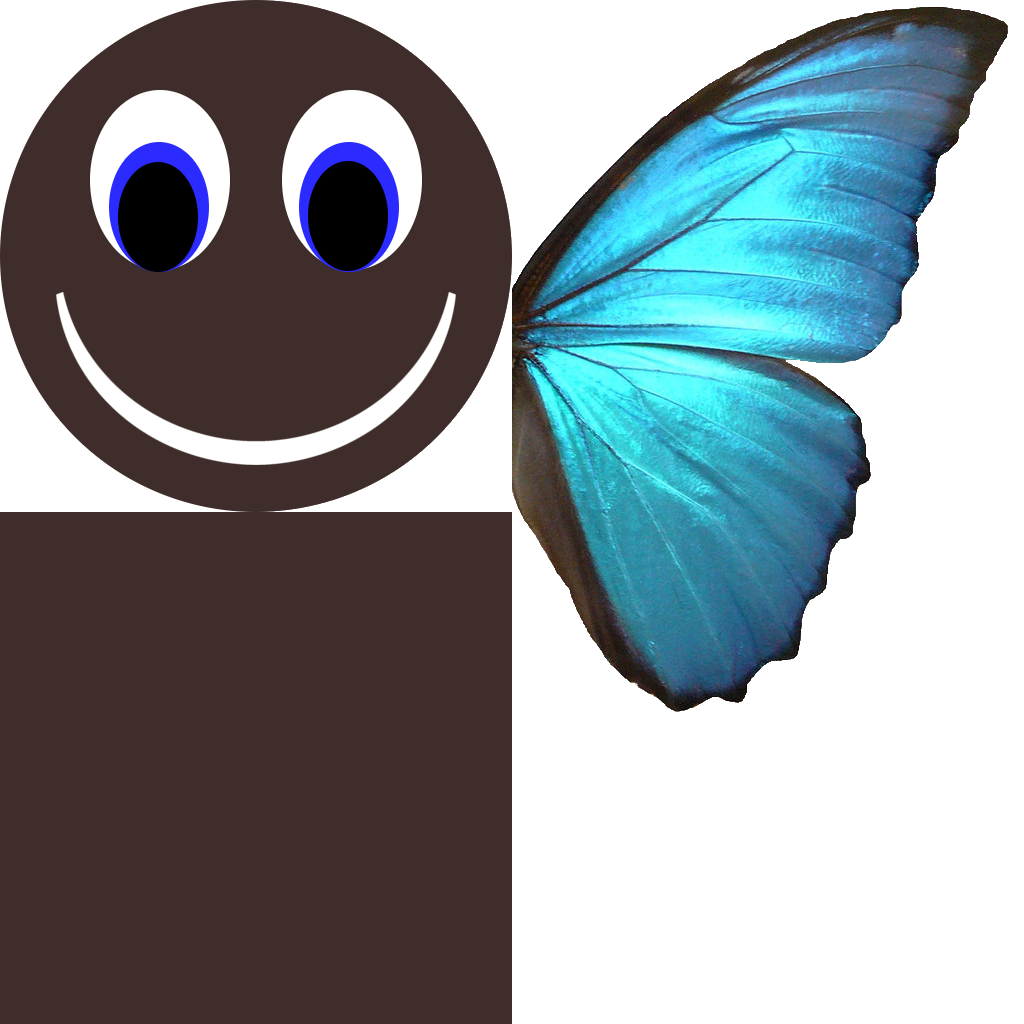
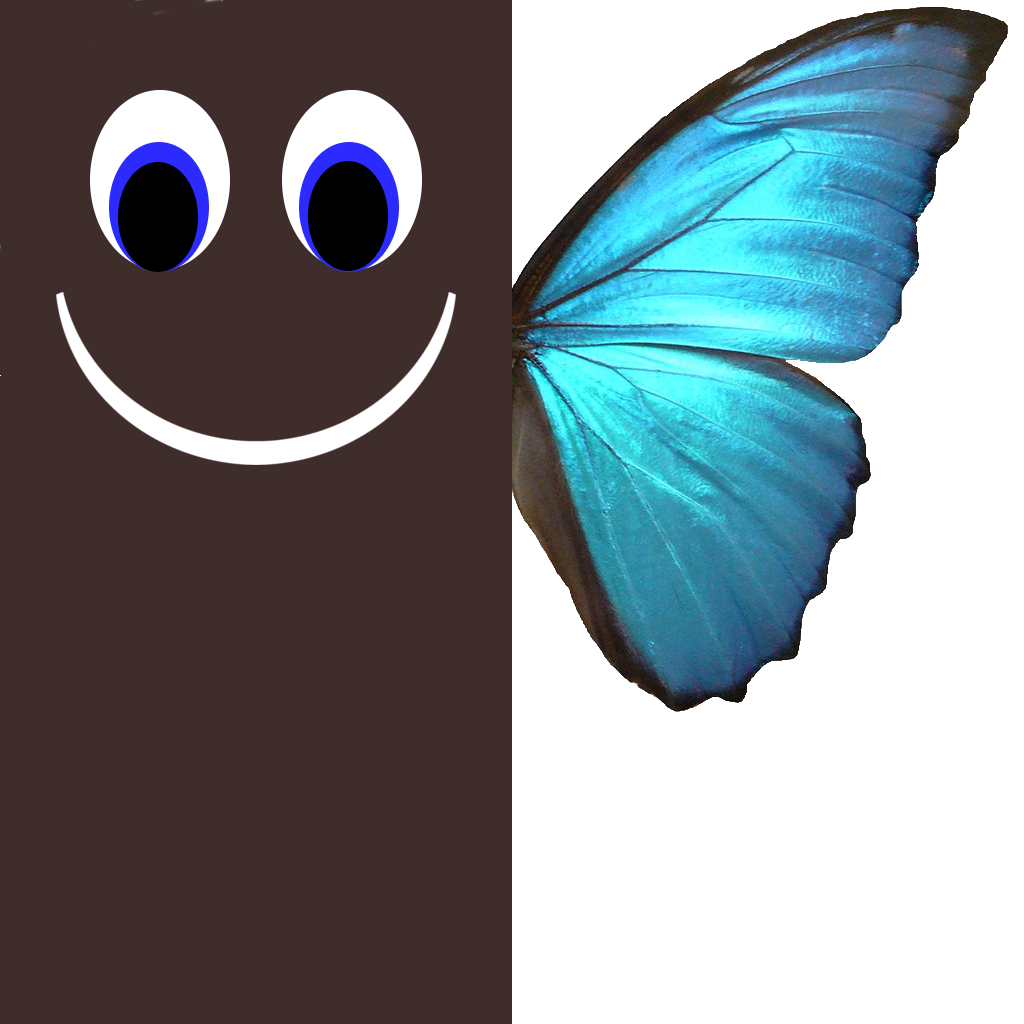
Changed model of splatterling. Calculation of face texture is done automatically.

diff --git a/src/scene/object/creature/Splatterling.cpp b/src/scene/object/creature/Splatterling.cpp
@@ -23,7 +23,69 @@ static const GLfloat GlobalPositionData[] =
 	-1.0f, -1.0f, 8.0f,
 	-1.0f, 1.0f, 8.0f,
 
+
+	0.0f,0.0f,0.0f,
+	0.25f,0.5f,1.0f,
+	-0.25f,0.5f,1.0f,
+	-0.5f,0.25f,1.0f,
+	-0.5f,-0.25f,1.0f,
+	-0.25f,-0.5f,1.0f,
+	0.25f,-0.5f,1.0f,
+	0.5f,-0.25f,1.0f,
+	0.5f,0.25f,1.0f,
+	0.25f,0.5f,1.0f,
+
+	-0.25f,0.5f,8.5f,
+	0.25f,0.5f,1.0f,
+	0.5f,1.0f,8.0f,
+	-0.5f,1.0f,8.0f,
+	-0.5f,0.25f,1.0f,
+	-1.0f,0.5f,8.0f,
+	-0.5f,-0.25f,1.0f,
+	-1.0f,-0.5f,8.0f,
+	-0.25f,-0.5f,1.0f,
+	-0.5f,-1.0f,8.0f,
+	0.25f,-0.5f,1.0f,
+	0.5f,-1.0f,8.0f,
+	0.5f,-0.25f,1.0f,
+	1.0f,-0.5f,8.0f,
+	0.5f,0.25f,1.0f,
+	1.0f,0.5f,8.0f,
+	0.25f,0.5f,1.0f,
+	0.5f,1.0f,8.0f,
+
 	//face
+
+	0.0f,0.0f,8.8f,
+	0.25f,0.5f,8.5f,
+	-0.25f,0.5f,8.5f,
+	-0.5f,0.25f,8.5f,
+	-0.5f,-0.25f,8.5f,
+	-0.25f,-0.5f,8.5f,
+	0.25f,-0.5f,8.5f,
+	0.5f,-0.25f,8.5f,
+	0.5f,0.25f,8.5f,
+	0.25f,0.5f,8.5f,
+
+	-0.25f,0.5f,8.5f,
+	0.25f,0.5f,8.5f,
+	0.5f,1.0f,8.0f,
+	-0.5f,1.0f,8.0f,
+	-0.5f,0.25f,8.5f,
+	-1.0f,0.5f,8.0f,
+	-0.5f,-0.25f,8.5f,
+	-1.0f,-0.5f,8.0f,
+	-0.25f,-0.5f,8.5f,
+	-0.5f,-1.0f,8.0f,
+	0.25f,-0.5f,8.5f,
+	0.5f,-1.0f,8.0f,
+	0.5f,-0.25f,8.5f,
+	1.0f,-0.5f,8.0f,
+	0.5f,0.25f,8.5f,
+	1.0f,0.5f,8.0f,
+	0.25f,0.5f,8.5f,
+	0.5f,1.0f,8.0f,
+
 	-1.0f, 1.0f, 8.0f,
 	-1.0f, -1.0f, 8.0f,
 	1.0f, 1.0f, 8.0f,
@@ -31,16 +93,16 @@ static const GLfloat GlobalPositionData[] =
 
 	//wingOne
 	0.0f, 0.5f, 4.0f,
-	8.0f, 4.0f, -2.0f,
-	8.0f, 4.0f, 10.0f,
+	8.0f, 4.0f, -6.0f,
+	8.0f, 4.0f, 14.0f,
 
 	//wingTwo
 	0.0f, 0.5f, 4.0f,
-	-8.0f, 4.0f, -2.0f,
-	-8.0f, 4.0f, 10.0f,
+	-8.0f, 4.0f, -6.0f,
+	-8.0f, 4.0f, 14.0f,
 };
 
-static const GLfloat TextureCoordData[] =
+static GLfloat TextureCoordData[] =
 {
 	0.0f, 0.0f,
 	0.5f, 0.0f,
@@ -49,7 +111,70 @@ static const GLfloat TextureCoordData[] =
 	0.5f, 0.5f,
 	0.5f, 0.0f,
 
+
+	0.0f, 0.0f,
+	0.0f, 0.0f,
+	0.0f, 0.0f,
+	0.0f, 0.0f,
+	0.0f, 0.0f,
+	0.0f, 0.0f,
+	0.0f, 0.0f,
+	0.0f, 0.0f,
+	0.0f, 0.0f,
+	0.0f, 0.0f,
+
+
+	0.0f, 0.0f,
+	0.0f, 0.0f,
+	0.0f, 0.0f,
+	0.0f, 0.0f,
+	0.0f, 0.0f,
+	0.0f, 0.0f,
+	0.0f, 0.0f,
+	0.0f, 0.0f,
+	0.0f, 0.0f,
+	0.0f, 0.0f,
+	0.0f, 0.0f,
+	0.0f, 0.0f,
+	0.0f, 0.0f,
+	0.0f, 0.0f,
+	0.0f, 0.0f,
+	0.0f, 0.0f,
+	0.0f, 0.0f,
+	0.0f, 0.0f,
+
 	//face
+
+	0.7f, 0.65f,
+	0.7f, 0.65f,
+	0.7f, 0.65f,
+	0.7f, 0.65f,
+	0.7f, 0.65f,
+	0.7f, 0.65f,
+	0.7f, 0.65f,
+	0.7f, 0.65f,
+	0.7f, 0.65f,
+	0.7f, 0.65f,
+
+	0.7f, 0.65f,
+	0.7f, 0.65f,
+	0.7f, 0.65f,
+	0.7f, 0.65f,
+	0.7f, 0.65f,
+	0.7f, 0.65f,
+	0.7f, 0.65f,
+	0.7f, 0.65f,
+	0.7f, 0.65f,
+	0.7f, 0.65f,
+	0.7f, 0.65f,
+	0.7f, 0.65f,
+	0.7f, 0.65f,
+	0.7f, 0.65f,
+	0.7f, 0.65f,
+	0.7f, 0.65f,
+	0.7f, 0.65f,
+	0.7f, 0.65f,
+
 	0.0f, 1.0f,
 	0.0f, 0.5f,
 	0.5f, 1.0f,
@@ -77,6 +202,66 @@ static const GLubyte ColorData[] =
 	255, 255, 0,
 	255, 255, 0,
 
+	255, 255, 255,
+	255, 255, 255,
+	255, 255, 255,
+	255, 255, 255,
+	255, 255, 255,
+	255, 255, 255,
+	255, 255, 255,
+	255, 255, 255,
+	255, 255, 255,
+	255, 255, 255,
+
+	0, 255, 0,
+	0, 255, 0,
+	0, 255, 0,
+	0, 255, 0,
+	0, 255, 0,
+	0, 255, 0,
+	0, 255, 0,
+	0, 255, 0,
+	0, 255, 0,
+	0, 255, 0,
+	0, 255, 0,
+	0, 255, 0,
+	0, 255, 0,
+	0, 255, 0,
+	0, 255, 0,
+	0, 255, 0,
+	0, 255, 0,
+	0, 255, 0,
+
+	255, 255, 255,
+	255, 255, 255,
+	255, 255, 255,
+	255, 255, 255,
+	255, 255, 255,
+	255, 255, 255,
+	255, 255, 255,
+	255, 255, 255,
+	255, 255, 255,
+	255, 255, 255,
+
+	0, 255, 0,
+	0, 255, 0,
+	0, 255, 0,
+	0, 255, 0,
+	0, 255, 0,
+	0, 255, 0,
+	0, 255, 0,
+	0, 255, 0,
+	0, 255, 0,
+	0, 255, 0,
+	0, 255, 0,
+	0, 255, 0,
+	0, 255, 0,
+	0, 255, 0,
+	0, 255, 0,
+	0, 255, 0,
+	0, 255, 0,
+	0, 255, 0,
+
 	0, 255, 255,
 	0, 255, 255,
 	0, 255, 255,
@@ -89,6 +274,17 @@ static const GLubyte ColorData[] =
 	0, 0, 255,
 	0, 0, 255,
 };
+
+static void initTexCoordArray(){
+	int posCoordIndex, end = Splatterling::TexSize / sizeof( GLfloat );
+	end = end - (10 * 2);
+
+	for (int i = Splatterling::BodyVertexCount*2; i < end; i=i+2) {
+		posCoordIndex = (i/2)*3;
+		TextureCoordData[i] = ((GlobalPositionData[posCoordIndex]+1.0f) / 2.0f)/2.0f;
+		TextureCoordData[i+1] = ((GlobalPositionData[posCoordIndex+1]+1.0f) / 2.0f)/2.0f + 0.5f;
+	}
+}
 
 
 Splatterling::Splatterling( World * world ) : ACreature( world )
@@ -112,16 +308,19 @@ Splatterling::Splatterling( World * world ) : ACreature( world )
 
 	damageMultiplicationFactor[TARGET_BODY] = 1.0f;
 	damageMultiplicationFactor[TARGET_HEAD] = 2.0f;
-	damageMultiplicationFactor[TARGET_WING] = 0.5f;
+	damageMultiplicationFactor[TARGET_WING_LEFT] = 0.5f;
+	damageMultiplicationFactor[TARGET_WING_RIGHT] = 0.5f;
 
 	for( unsigned int i = 0; i < PositionSize / sizeof( GLfloat ); i++ )
 	{
-		PositionData[i] = GlobalPositionData[i];
+		PositionData[i] = GlobalPositionData[i] / 2.0f;
 	}
 
 	mCoolDown = 0.0f;
 	recalculationOfRotationAngle = true;
 	rotationAroundPlayer = -1000.0f;
+
+	initTexCoordArray();
 }
 
 
@@ -165,7 +364,7 @@ void Splatterling::updateSelf( const double & delta )
 		}
 		case ALIVE:
 		{
-			mWingSound->setPositionAutoVelocity(this->worldPosition(), delta);
+/		mWingSound->setPositionAutoVelocity(this->worldPosition(), delta);
 			GLfloat dist = ( world()->player()->worldPosition() - worldPosition() ).length();
 
 			if( dist < 13 )
@@ -300,8 +499,14 @@ void Splatterling::drawSelf()
 	glEnableClientState( GL_TEXTURE_COORD_ARRAY );
 //	glEnableClientState( GL_COLOR_ARRAY );
 
-	glDrawArrays( GL_TRIANGLE_FAN, 0, Splatterling::BodyVertexCount );
-	glDrawArrays( GL_TRIANGLE_STRIP, 6, Splatterling::HeadVertexCount );
+//	glDrawArrays( GL_TRIANGLE_FAN, 0, Splatterling::BodyVertexCount );
+
+	glDrawArrays( GL_TRIANGLE_FAN, 6, 10 );
+	glDrawArrays( GL_TRIANGLE_STRIP, 16, 18 );
+
+	glDrawArrays( GL_TRIANGLE_FAN, Splatterling::BodyVertexCount, 10 );
+	glDrawArrays( GL_TRIANGLE_STRIP, Splatterling::BodyVertexCount+10, 18 );
+//	glDrawArrays( GL_TRIANGLE_STRIP, 6 + Splatterling::HeadVertexCount-4, 4 );
 
 	glDrawArrays( GL_TRIANGLES, Splatterling::BodyVertexCount + Splatterling::HeadVertexCount, 3 );
 	glDrawArrays( GL_TRIANGLES, Splatterling::BodyVertexCount + Splatterling::HeadVertexCount + 3, 3 );
@@ -372,7 +577,7 @@ bool Splatterling::intersectWing(const QVector3D & origin, const QVector3D & dir
 	if( Triangle::intersectRay(this->pointToWorld(v[0]), this->pointToWorld(v[1]), this->pointToWorld(v[2]), origin, direction, intersectionDistance) ||
 		Triangle::intersectRay(this->pointToWorld(v[0]), this->pointToWorld(v[2]), this->pointToWorld(v[1]), origin, direction, intersectionDistance))
 	{
-		targetBodyPart = TARGET_WING;
+		targetBodyPart = TARGET_WING_LEFT;
 		return true;
 	}
 
@@ -383,7 +588,7 @@ bool Splatterling::intersectWing(const QVector3D & origin, const QVector3D & dir
 	if( Triangle::intersectRay(this->pointToWorld(v[0]), this->pointToWorld(v[1]), this->pointToWorld(v[2]), origin, direction, intersectionDistance) ||
 		Triangle::intersectRay(this->pointToWorld(v[0]), this->pointToWorld(v[2]), this->pointToWorld(v[1]), origin, direction, intersectionDistance))
 	{
-		targetBodyPart = TARGET_WING;
+		targetBodyPart = TARGET_WING_RIGHT;
 		return true;
 	}
 
@@ -395,9 +600,11 @@ bool Splatterling::intersectHead(const QVector3D & origin, const QVector3D & dir
 {
 	QVector3D v[4];
 
+	int flatHeadPosition = BodyVertexCount+HeadVertexCount-4;
+
 
 	for (int i = 0; i < 4; i++) {
-		v[i] = QVector3D(PositionData[(BodyVertexCount+i)*3], PositionData[(BodyVertexCount+i)*3+1], PositionData[(BodyVertexCount+i)*3+2]);
+		v[i] = QVector3D(PositionData[(flatHeadPosition+i)*3], PositionData[(flatHeadPosition+i)*3+1], PositionData[(flatHeadPosition+i)*3+2]);
 	}
 	if( Triangle::intersectRay(this->pointToWorld(v[0]), this->pointToWorld(v[1]), this->pointToWorld(v[2]), origin, direction, intersectionDistance) ||
 		Triangle::intersectRay(this->pointToWorld(v[1]), this->pointToWorld(v[3]), this->pointToWorld(v[2]), origin, direction, intersectionDistance))
@@ -416,7 +623,6 @@ void Splatterling::receiveDamage( int damage, const QVector3D * position, const 
 	if(intersectHead(*position, *direction, &rayLength) || intersectWing(*position, *direction, &rayLength)
 		|| intersectBody(*position, *direction, &rayLength)){
 
-		qDebug() << damageMultiplicationFactor[targetBodyPart];
 		damage *= damageMultiplicationFactor[targetBodyPart];
 		ACreature::receiveDamage( damage, direction );
 		QVector3D splatterSource;

diff --git a/src/scene/object/creature/Splatterling.hpp b/src/scene/object/creature/Splatterling.hpp
@@ -15,15 +15,15 @@ class Splatterling : public ACreature
 {
 public:
 
-	static const GLsizeiptr PositionSize = 16 * 3 * sizeof( GLfloat );
-	static const GLsizeiptr ColorSize = 16 * 3 * sizeof( GLubyte );
-	static const GLsizeiptr TexSize = 16 * 2 * sizeof( GLfloat );
+	static const GLsizeiptr PositionSize = 72 * 3 * sizeof( GLfloat );
+	static const GLsizeiptr ColorSize = 72 * 3 * sizeof( GLubyte );
+	static const GLsizeiptr TexSize = 72 * 2 * sizeof( GLfloat );
 
 
 	static const int BufferSize = 3;
 
-	static const GLsizei BodyVertexCount = 6;
-	static const GLsizei HeadVertexCount = 4;
+	static const GLsizei BodyVertexCount = 34;
+	static const GLsizei HeadVertexCount = 32;
 	static const int WingOneYPos = ( ( BodyVertexCount + HeadVertexCount ) * 3 ) + 4;
 	static const int WingTwoYPos = ( ( BodyVertexCount + HeadVertexCount ) * 3 ) + ( 3 * 3 ) + 4;
 	static const double RotationStepSize = 2.0;
@@ -37,7 +37,8 @@ public:
 	{
 		TARGET_BODY = 0,
 		TARGET_HEAD = 1,
-		TARGET_WING = 2
+		TARGET_WING_RIGHT = 2,
+		TARGET_WING_LEFT = 3
 	};
 
 	GLuint BufferName[BufferSize];
@@ -67,13 +68,13 @@ private:
 	float mVelocityY;
 	float mHeightAboveGround;
 	GLuint vboId;
-	GLfloat PositionData[48];
+	GLfloat PositionData[PositionSize/sizeof( GLfloat )];
 	QVector3D destinationPoint;
 	bool wingUpMovement;
 	bool playerDetected;
 	AudioSample * mWingSound;
 	int targetBodyPart;
-	float damageMultiplicationFactor[3];
+	float damageMultiplicationFactor[4];
 	float mCoolDown;
 	bool recalculationOfRotationAngle;
 	float rotationAroundPlayer;
